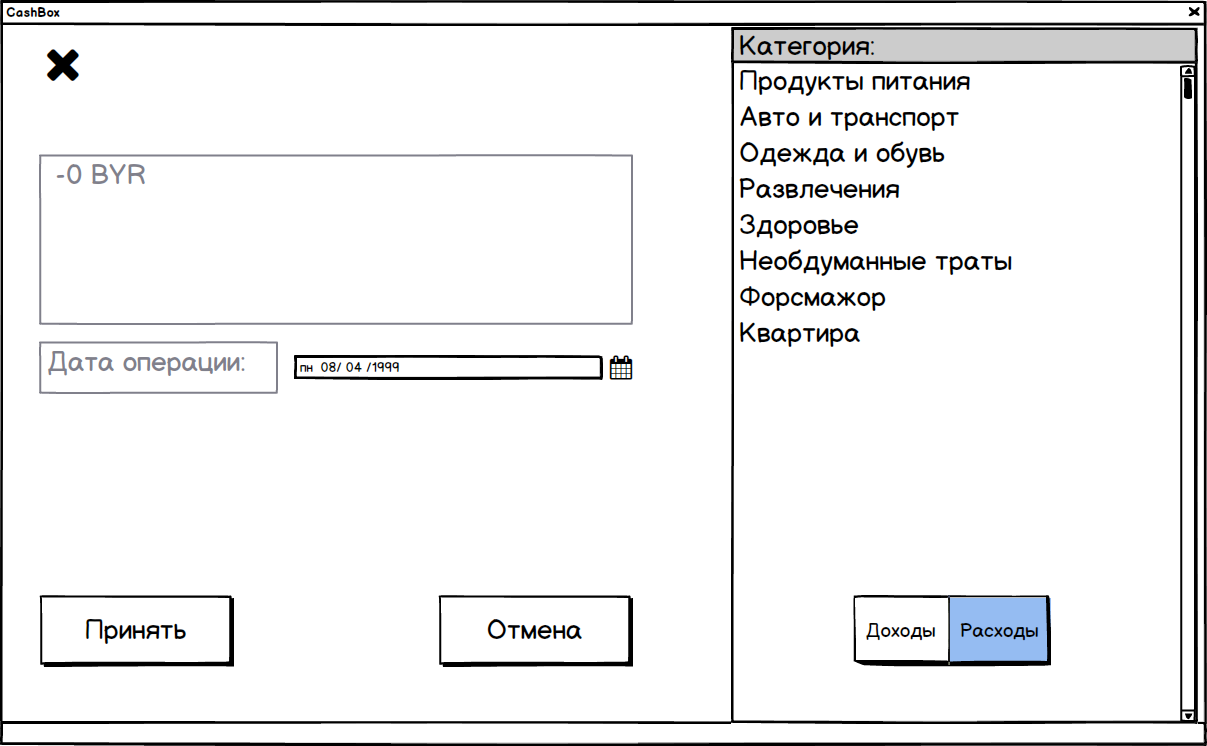
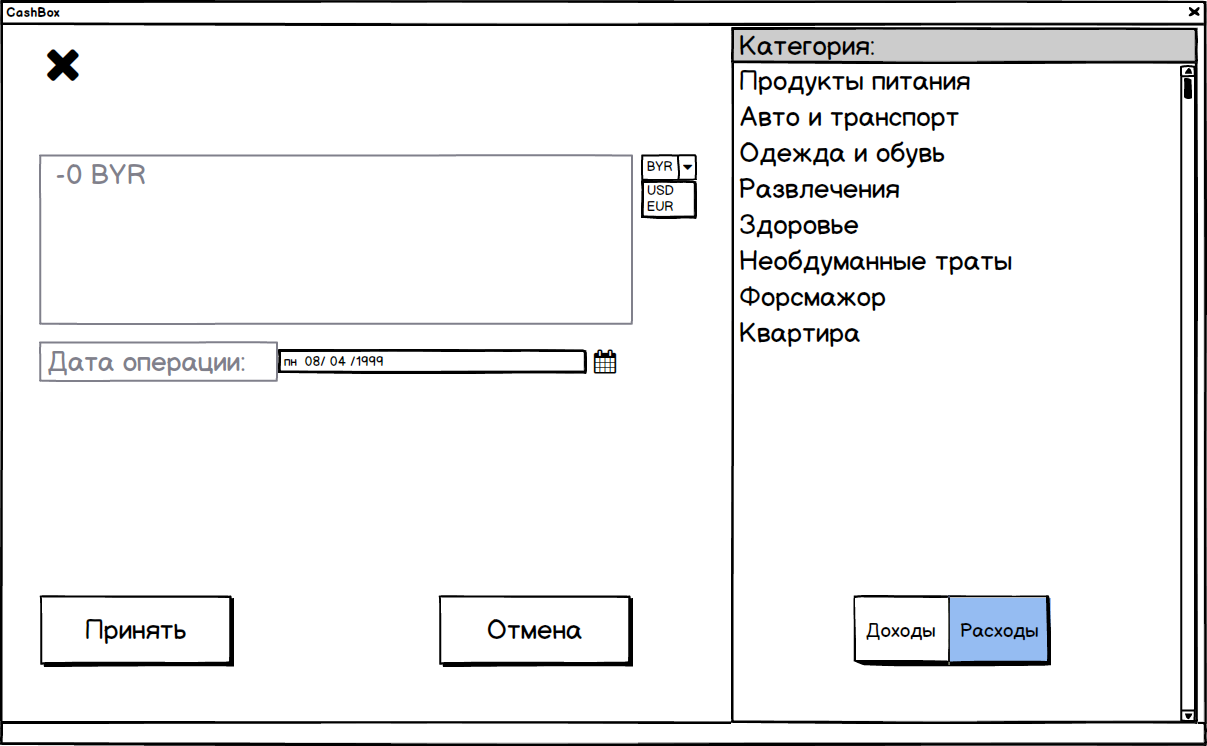
Story 5: reworked UML Use Case

Changed region(s): [[0.092, 0.4625, 0.5211, 0.555], [0.5211, 0.185, 0.5824, 0.3083], [0.0307, 0.4933, 0.0613, 0.555]]

diff --git a/docs/UMLDiagrams/UseCase/EventFlows.md b/docs/UMLDiagrams/UseCase/EventFlows.md
@@ -6,9 +6,11 @@
 # Содержание
 1 [Актёры](#1) <br>
 2 [Варианты использования](#2) <br>
-2.1 [Добавление операции](#2.1) <br>
-2.2 [Изменение операции ](#2.2) <br>
-2.3 [Удаление операции](#2.3) <br>
+2.1 [Добавление денежной операции](#2.1) <br>
+2.2 [Изменение денежной операции ](#2.2) <br>
+2.3 [Удаление денежной операции](#2.3) <br>
+2.4 [Просмотр диаграмм](#2.4) <br>
+2.5 [Перевод валют из одной единицы в другую](#2.5) <br>
 
 <a name="1"/>
 
@@ -24,7 +26,7 @@
 
 <a name="2.1"/>
 
-## 2.1 Добавление операции
+## 2.1 Добавление денежной операции
 
 **Описание.** Позволяет добавлять пункт расхода и дохода
 
@@ -40,14 +42,14 @@
 
 <a name="2.2"/>
 
-## 2.2 Изменение операции  
+## 2.2 Изменение денежной операции  
 
 **Описание.** Позволяет изменять операции расхода и дохода.  
 **Предусловие.** Пользователь работает с интерфейсом добавления операции и имеется хотя бы одна операция.  
 
 **Основной поток.**
 1. Вариант использования начинается при нажатии на название операции из списка добавленных операций на главной странице;  
-2.  Открывается меню со списком всех доступных категорий расходов и доходов, суммой операции и датой операции(по умолчанию сегодняшняя);  
+2.  Открывается меню со списком всех доступных категорий расходов и доходов, суммой операции, единицы валюты и датой операции(по умолчанию сегодняшняя);  
 3. При выборе кнопки "Принять", окно меню выбора закрывается, открывается главное меню;  
 4. Вариант использования завершается.  
 
@@ -58,14 +60,40 @@
 
 <a name="2.3"/>
 
-## 2.3 Удаление операции
+## 2.3 Удаление денежной операции
 
 **Описание.** Позволяет удалять операции расхода и дохода.
 **Предусловие.** Пользователь работает с интерфейсом добавления операции и имеется хотя бы одна операция.  
 
 **Основной поток.**
 1. Вариант использования начинается при нажатии на название операции из списка добавленных операций на главной странице;  
-2. Открывается окно изменения операции;  
+2. Открывается окно свойств денежной операции;  
 3. Пользователь нажимает на крестик слева в верху окна;  
 4. При подтвеждении операция удаляется.  
+5. Вариант использования завершается.
+
+<a name="2.4"/>
+
+## 2.4 Просмотр диаграмм  
+
+**Описание.** Позволяет видеть диаграмму соотношения расходов и доходов.  
+
+**Основной поток.**
+1. Вариант использования начинается при нахождении на главной странице приложения.
+2. Диаграмма находится на главной странице приложения.  
+3. Диаграмма обновляется при каждом изменении денежных операций, будь то добавление, удаление или изменение.
+4. Вариант использования завершается.  
+
+
+<a name="2.5"/>
+
+## 2.5 Перевод валют из одной единицы в другую  
+
+**Описание.** Позволяет выбирать вид валюты денежной операции в окне выбора, появляющегося при добавлении/изменении денежной операции.
+
+**Основной поток.**
+1. Вариант использования начинается при работе с окном свойств денежной операции;  
+2. Открывается окно свойств операции;  
+3. Пользователь выбирает нужную единицу валюты из списка валют(находится справа от окна величины операции);
+4. При выборе кнопки "Принять", окно меню выбора закрывается, открывается главное меню.  
 5. Вариант использования завершается.  
